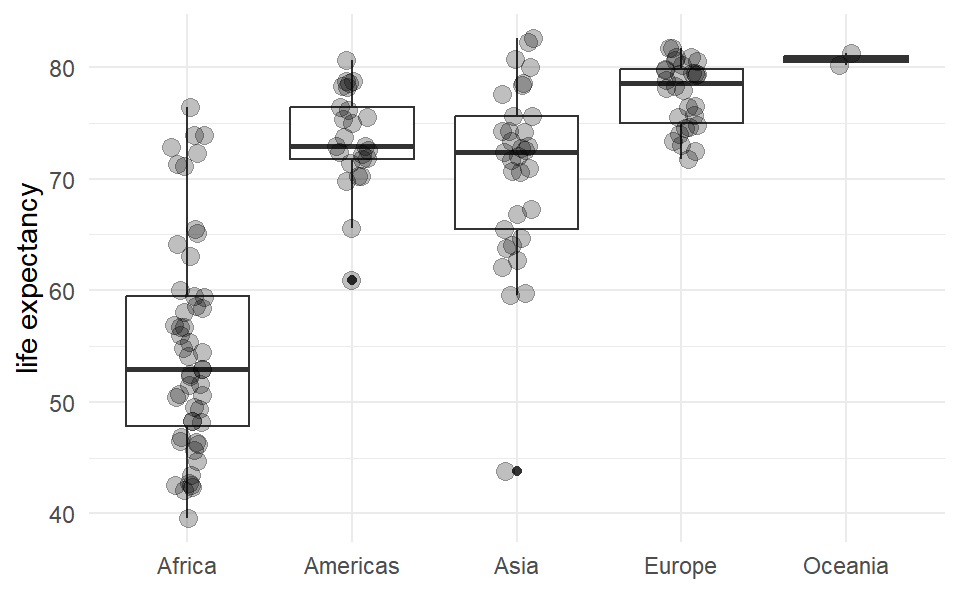
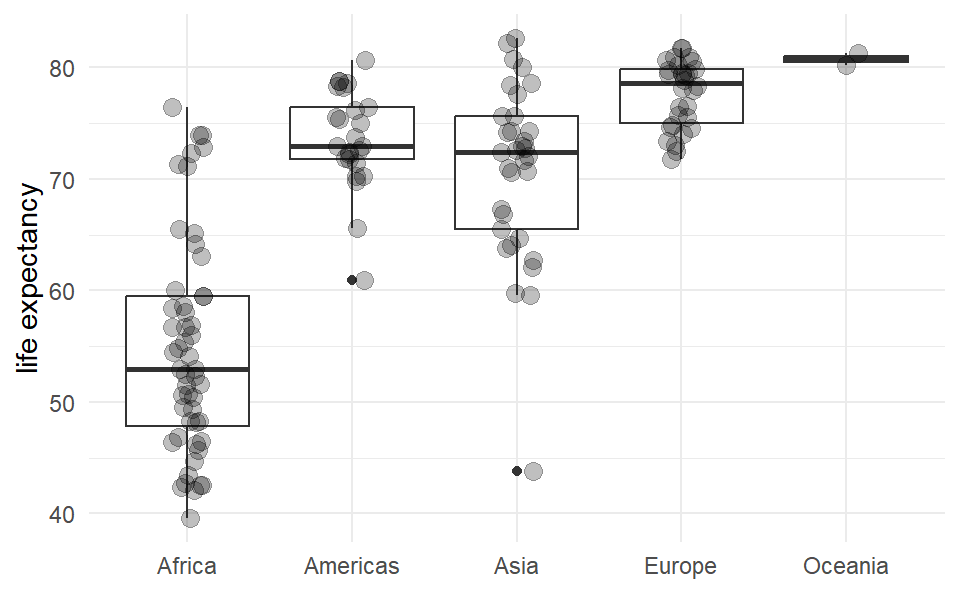
header

diff --git a/docs/overview.html b/docs/overview.html
@@ -6,6 +6,7 @@
 
 <meta name="viewport" content="width=device-width, initial-scale=1.0, user-scalable=yes">
 
+<meta name="dcterms.date" content="2025-06-11">
 
 <title>Overview</title>
 <style>
@@ -106,6 +107,12 @@ pre > code.sourceCode > span > a:first-child::before { text-decoration: underlin
 <div class="quarto-title-meta">
 
     
+    <div>
+    <div class="quarto-title-meta-heading">Published</div>
+    <div class="quarto-title-meta-contents">
+      <p class="date">June 11, 2025</p>
+    </div>
+  </div>
   
     
   </div>
@@ -455,30 +462,30 @@ $ gdpPercap &lt;dbl&gt; 779.4453, 820.8530, 853.1007, 836.1971, 739.9811, 786.11
 </div>
 <div class="sourceCode cell-code" id="cb42"><pre class="sourceCode r code-with-copy"><code class="sourceCode r"><span id="cb42-1"><a href="#cb42-1" aria-hidden="true" tabindex="-1"></a><span class="fu">runif</span>(<span class="dv">100</span>, <span class="dv">1</span>, <span class="dv">100</span>)</span></code><button title="Copy to Clipboard" class="code-copy-button"><i class="bi"></i></button></pre></div>
 <div class="cell-output cell-output-stdout">
-<pre><code>  [1] 34.767845 99.580777 36.669888 25.869340 12.403662 29.117390 60.045848
-  [8] 64.716972 21.194635 48.012935  7.627895 86.929317 23.896804  4.285181
- [15] 19.174140 43.692111 97.574804 51.416638 17.612818  2.546385 52.235194
- [22] 72.846993 45.924598 42.252328 42.916201 74.559159  9.531716 15.701457
- [29] 77.287485 88.719971 87.990018 78.147795 46.110422 28.945078 95.633605
- [36] 13.534832 66.997532 22.195470 34.058202 86.099384 18.569139 99.790823
- [43] 34.343215  9.113722 21.157032 99.365242 88.093051 33.569361 61.492857
- [50] 47.783026 34.063297 88.344053 36.278318 82.126254 84.827913 74.552780
- [57] 89.273800 48.928979 45.931939 48.560703  4.872078 96.062373 41.097746
- [64] 75.157769 72.062464 24.540684 52.729042 22.593898 82.412783 67.935946
- [71] 44.745317 67.752996  8.314524 99.955866 57.993604 40.001878 85.103083
- [78] 10.843393 19.623863 10.675476 76.866024 96.222986 56.823047 58.159011
- [85] 39.080796 74.367597  7.372112 63.026755 95.028036 60.191087 71.386615
- [92] 12.362129 22.276555 37.017968 22.492948 42.921129 98.166741 55.182372
- [99] 37.116143 40.665965</code></pre>
+<pre><code>  [1] 49.628793 42.249652 65.416405 76.463372 51.380334 83.803802 23.311730
+  [8] 97.781358  4.367314 68.032925 21.649405 62.658114  1.988232  2.685905
+ [15] 94.191374 67.078119 50.997627 41.391133 53.593043 77.559147 68.833499
+ [22] 96.277772  6.296834  9.266700 70.543463 34.510142 52.369583 93.165684
+ [29] 23.260882 65.680424 77.382267 59.303461 30.271811  9.965472 26.911768
+ [36] 14.456764 16.491942  4.453230  2.280044 47.654042 54.118429 62.299908
+ [43] 32.924320 68.089108 71.293162 30.502418 45.224256 81.678676 15.266003
+ [50] 27.314063 40.069653 46.622116 33.786588 49.006816 46.263852 41.810235
+ [57] 11.978569 59.197273 66.176402  9.032490 89.217701 25.034747 46.590027
+ [64] 53.156423 12.612508 30.738724 70.902623 58.735938 71.800085 66.876216
+ [71] 82.346247 58.812193 40.517570 76.729272  3.608425 82.196149 97.128357
+ [78] 29.688259  4.823371  8.581127 93.141317 59.215970 45.633759 51.038782
+ [85] 38.503842 76.717892 95.934690 31.129537 70.254199 89.361802 25.647121
+ [92] 91.685076 40.395118 20.076511 66.046805 34.385666 37.322531 57.608824
+ [99] 62.957243  9.392157</code></pre>
 </div>
 <div class="sourceCode cell-code" id="cb44"><pre class="sourceCode r code-with-copy"><code class="sourceCode r"><span id="cb44-1"><a href="#cb44-1" aria-hidden="true" tabindex="-1"></a><span class="fu">sample</span>(<span class="dv">1</span><span class="sc">:</span><span class="dv">100</span>, <span class="dv">100</span>, <span class="at">replace =</span> <span class="cn">FALSE</span>)</span></code><button title="Copy to Clipboard" class="code-copy-button"><i class="bi"></i></button></pre></div>
 <div class="cell-output cell-output-stdout">
-<pre><code>  [1]  77  92  97  86   6  57  81  68  19  88  73  12  42  62   1  46  67  22
- [19]  61  25  82  74  37  23  58  30  69  34   4  11  27  10  71  44  16   8
- [37]  87  28  38  15  60  35  33   9  56  45  63  85  78  66  95   5  89  59
- [55]  20  83  24  50  18  29  14  31  53  26  48  52  79  36  41  76  84  40
- [73]   7  13   2   3  55  64  80  32  51  75  93  96  65  98 100  94  43  70
- [91]  99  17  90  21  54  39  49  72  47  91</code></pre>
+<pre><code>  [1]  84  15  79  91  55  72  29  86  93  85  75  67  82  37  57  19  32  70
+ [19]  11  94  25  40  12  97   3  34  65   8  44  63  33   5  58  64  77   1
+ [37]  92  46  53  52  81 100  51  88  26  17  59  73  74  69  21   4  47  76
+ [55]  95  83  31  45  60  62  61  13  39  27  56  38  66   9  28  16  89  78
+ [73]  18  99  10  41  42  90  80  96  54   6  14   7  98  20  48   2  50  23
+ [91]  43  30  71  36  35  87  49  22  68  24</code></pre>
 </div>
 <div class="sourceCode cell-code" id="cb46"><pre class="sourceCode r code-with-copy"><code class="sourceCode r"><span id="cb46-1"><a href="#cb46-1" aria-hidden="true" tabindex="-1"></a><span class="fu">seq_along</span>(letters)</span></code><button title="Copy to Clipboard" class="code-copy-button"><i class="bi"></i></button></pre></div>
 <div class="cell-output cell-output-stdout">
